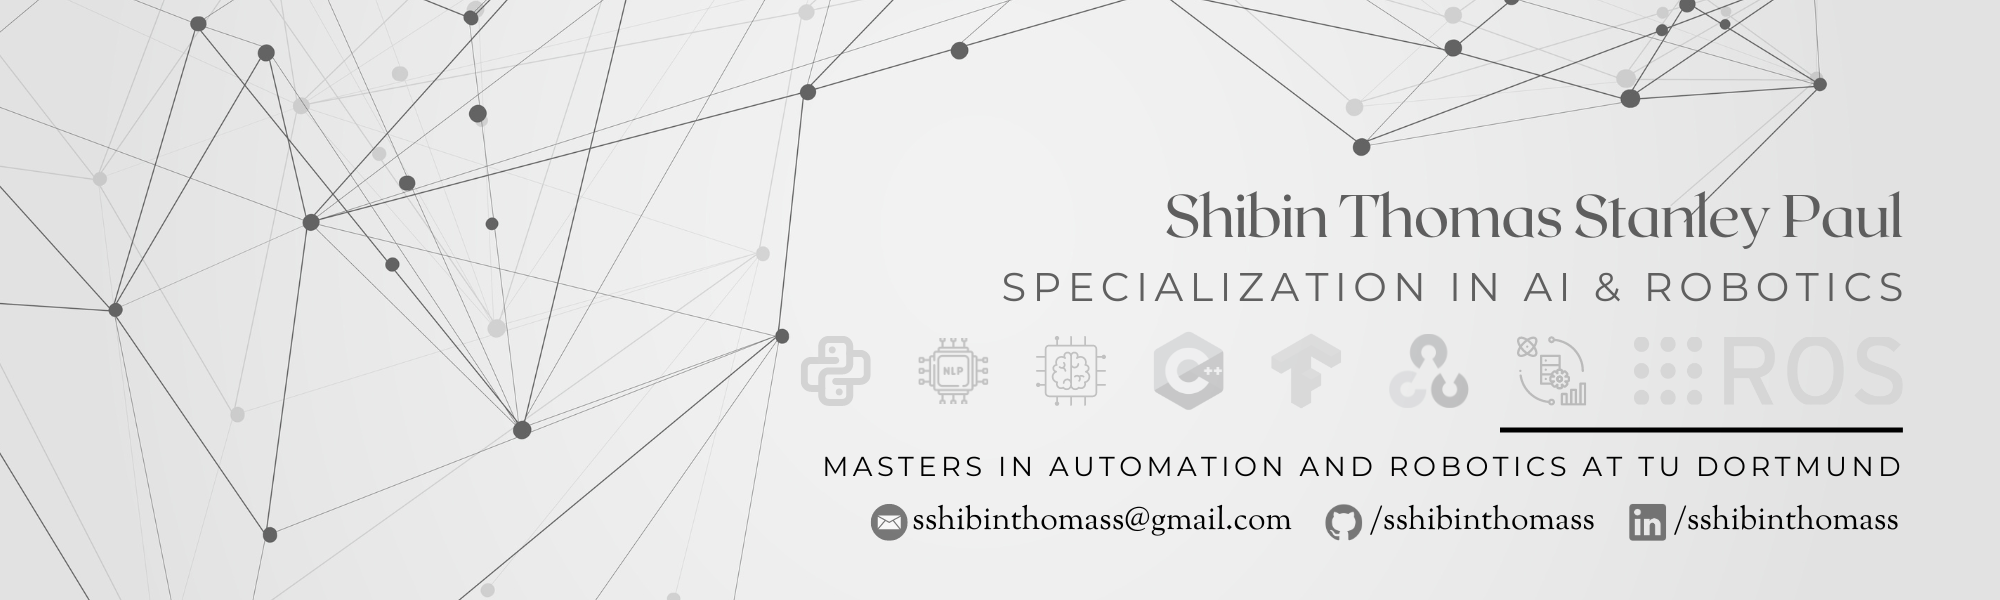
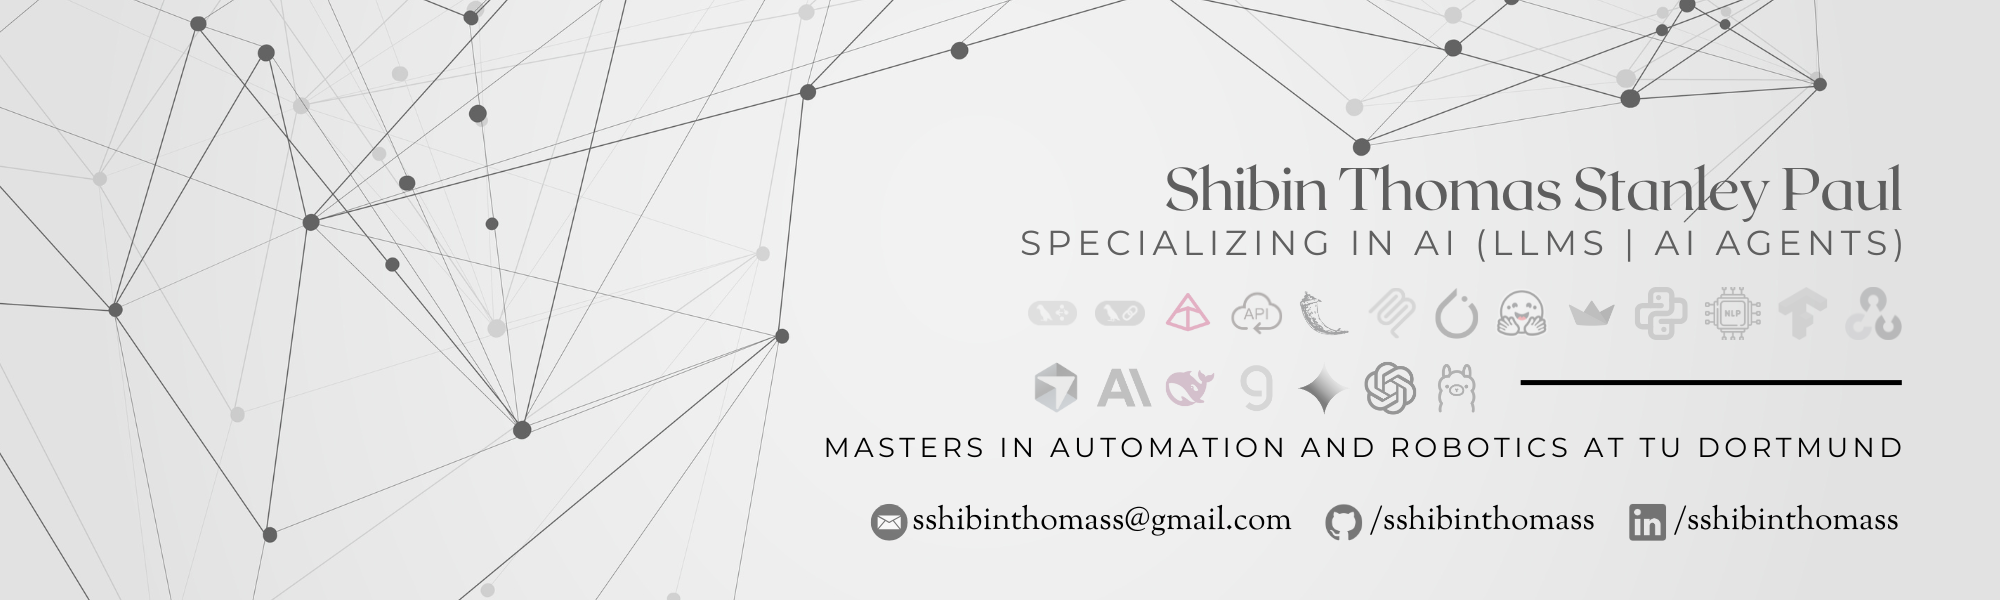
highlights

Changed region(s): [[0.403, 0.45, 0.961, 0.81], [0.496, 0.27, 0.961, 0.42]]

diff --git a/README.md b/README.md
@@ -1,4 +1,4 @@
-![Logo](https://raw.githubusercontent.com/sshibinthomass/sshibinthomass/main/Shibin1.png)
+![Logo](https://raw.githubusercontent.com/sshibinthomass/sshibinthomass/main/Shibin.png)
  
 <h3 align="center">Im Young Budding Energetic Engineer</h3>
 
@@ -60,3 +60,14 @@
 <p>&nbsp;<img align="center" src="https://github-readme-stats.vercel.app/api?username=sshibinthomass&show_icons=true&theme=tokyonight&locale=en" alt="sshibinthomass" /></p>
 
 <p><img align="center" src="https://github-readme-streak-stats.herokuapp.com/?user=sshibinthomass&theme=dark" alt="sshibinthomass" /></p>
+
+
+## 🗂 Highlight Projects
+
+<a href="https://github.com/sshibinthomass/Langgraph-Core">
+  <img align="center" src="https://github-readme-stats.vercel.app/api/pin/?username=sshibinthomass&repo=Langgraph-Core&show_icons=true&line_height=27&title_color=6aa6f8&text_color=8a919a&icon_color=6aa6f8&bg_color=22272e" alt="Langgraph-Core" />
+</a>
+
+<a href="https://github.com/sshibinthomass/Munich-sushi-Chatbot">
+  <img align="center" src="https://github-readme-stats.vercel.app/api/pin/?username=sshibinthomass&repo=Munich-sushi-Chatbot&show_icons=true&line_height=27&title_color=6aa6f8&text_color=8a919a&icon_color=6aa6f8&bg_color=22272e" alt="sushi-Chatbot" />
+</a>
